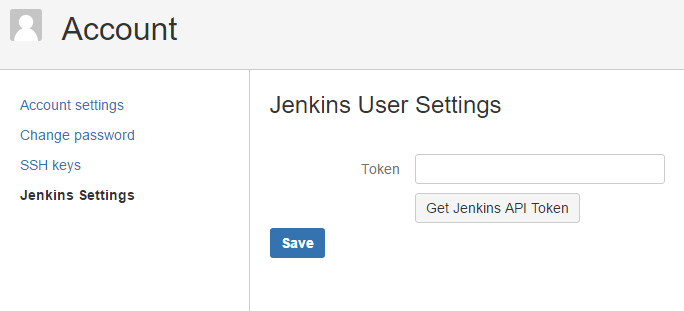
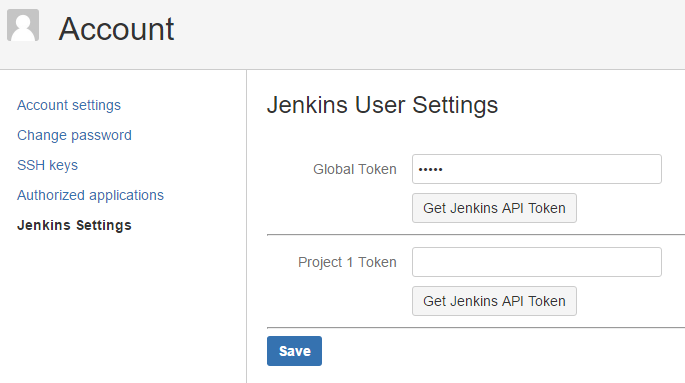
updated readme

diff --git a/src/main/java/com/kylenicholls/stash/parameterizedbuilds/ciserver/CIServlet.java b/src/main/java/com/kylenicholls/stash/parameterizedbuilds/ciserver/CIServlet.java
@@ -29,6 +29,7 @@ public class CIServlet extends HttpServlet {
 	private static final String JENKINS_ADMIN_SETTINGS = "jenkins.admin.settings";
 	private static final String JENKINS_PROJECT_SETTINGS = "jenkins.admin.settingsProjectAdmin";
 	private static final String SERVER = "server";
+	private static final String PROJECT_KEY = "projectKey";
 	private final SoyTemplateRenderer soyTemplateRenderer;
 	private final AuthenticationContext authContext;
 	private final NavBuilder navBuilder;
@@ -77,7 +78,7 @@ public class CIServlet extends HttpServlet {
 		Server projectServer = jenkins.getJenkinsServer(projectKey);
 		render(resp, JENKINS_PROJECT_SETTINGS, ImmutableMap
 				.<String, Object> of(SERVER, projectServer != null ? projectServer
-						: "", "projectKey", projectKey, ERRORS, ""));
+						: "", PROJECT_KEY, projectKey, ERRORS, ""));
 	}
 
 	private void renderForGlobal(HttpServletResponse resp)
@@ -145,7 +146,7 @@ public class CIServlet extends HttpServlet {
 			jenkins.saveJenkinsServer(null, projectKey);
 		} else if (server.getBaseUrl().isEmpty()) {
 			render(res, JENKINS_PROJECT_SETTINGS, ImmutableMap
-					.<String, Object> of(SERVER, server, "projectKey", projectKey, ERRORS, "Base URL required"));
+					.<String, Object> of(SERVER, server, PROJECT_KEY, projectKey, ERRORS, "Base URL required"));
 			return;
 		} else {
 			jenkins.saveJenkinsServer(server, projectKey);

diff --git a/README.md b/README.md
@@ -7,8 +7,8 @@
 3. [Link your bitbucket server account to Jenkins](#link-your-bitbucket-server-account-to-jenkins)
 
 #### Define a server
-Add a Jenkins server under Jenkins Settings found on the 
-Administration page of Bitbucket Server
+Jenkins servers can be defined globally on the Administration page of Bitbucket Server
+or per project on the project settings page.
 
 ![Jenkins administration settings](readme/img/jenkins_admin.png)  
 * `Base URL` should be the http/https root address to you jenkins server
@@ -42,11 +42,13 @@ build for branches/tags that match the filter
 On your user account page you can add your Jenkins API token.
 When added bitbucket server will use your Jenkins account 
 to trigger jobs for branches you create/push, pull requests you open, or for manual builds.  
+If you have multiple Jenkins servers setup you can set the api token for each one.
 
 Order of authentication:  
 The Jenkins user `Token` from the Jenkins User Settings will be used for authentation first.  
 If that is not set then the `Token` parameter in the job configuration will be used second.  
-If that is not set then the `Default User` and `Default Token` on the Jenkins administration page will be used.
+If that is not set then the `Default User` and `Default Token` on the Jenkins 
+server settings page will be used.
 
 
 ## Triggers
